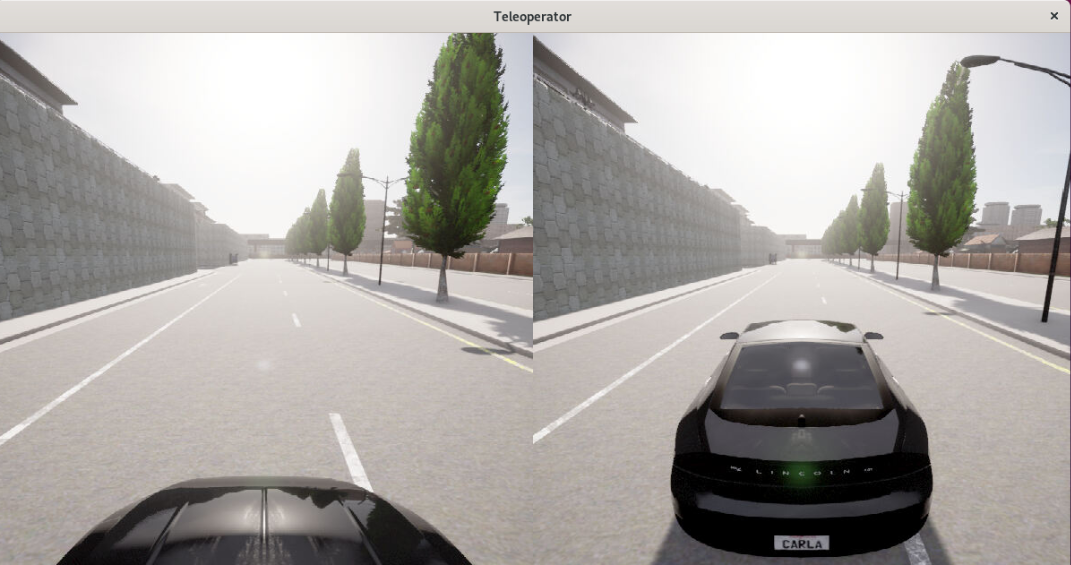
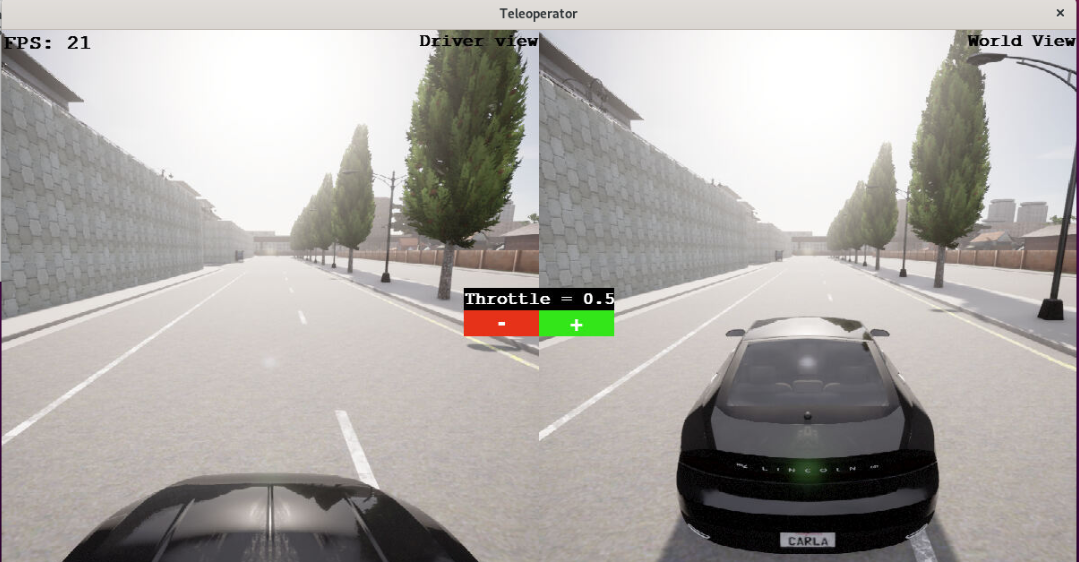
update video

diff --git a/docs/_posts/2024-02-28-Teleoperator.md b/docs/_posts/2024-02-28-Teleoperator.md
@@ -1,6 +1,6 @@
 ---
 title: "Teleoperador"
-last_modified_at: 2024-04-18T12:46:00
+last_modified_at: 2024-04-22T16:33:00
 categories:
   - Blog
 tags:
@@ -46,6 +46,8 @@ Después, nos centramos en definir el vehículo que queríamos controlar, conoci
 ## Interfaz
 
 Para la Interacción Humano-Robot (HRI) hemos utilizado la biblioteca ***Pygame***, creando una pantalla que nos permite visualizar el contenido de ambas cámaras de manera simultánea.
+
+También hemos incluido un par de botones para aumentar o disminuir el *throttle*, es decir, la cantidad de acelerador que se aplica en el coche.
 <figure class="align-center" style="max-width: 100%">
   <img src="{{ site.url }}{{ site.baseurl }}/images/teleoperator/interface.png" alt="">
 </figure>
@@ -121,4 +123,4 @@ class Teleoperator:
 
 ## Demo
 
-<iframe width="560" height="315" src="https://www.youtube.com/embed/4Zh4QxjANoQ?si=RHRC45ch-WrZsOHz" title="YouTube video player" frameborder="0" allow="accelerometer; autoplay; clipboard-write; encrypted-media; gyroscope; picture-in-picture; web-share" allowfullscreen></iframe>
+<iframe width="560" height="315" src="https://www.youtube.com/embed/uPWRMx6LwIM?si=qUjo2tTMJJVlc2BM&amp;start=2" title="YouTube video player" frameborder="0" allow="accelerometer; autoplay; clipboard-write; encrypted-media; gyroscope; picture-in-picture; web-share" referrerpolicy="strict-origin-when-cross-origin" allowfullscreen></iframe>
